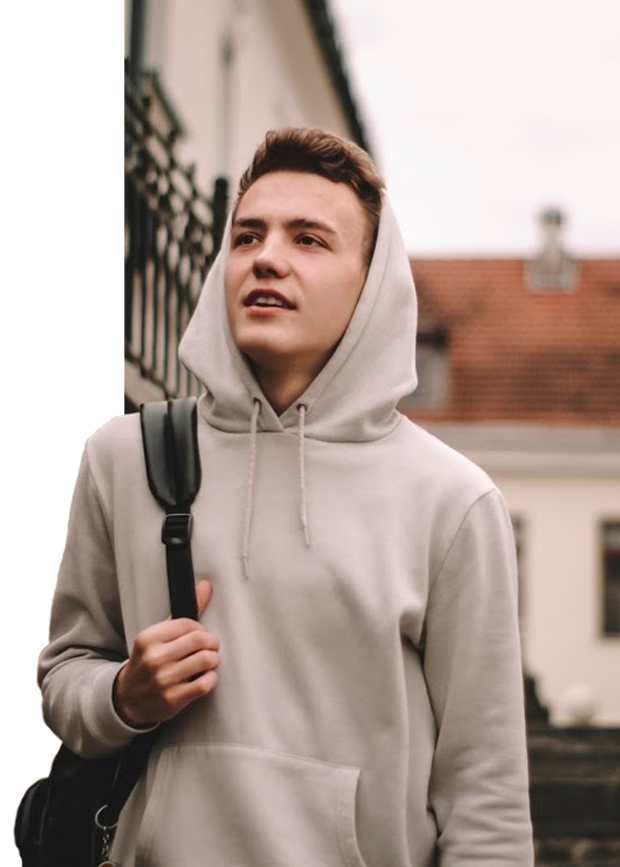
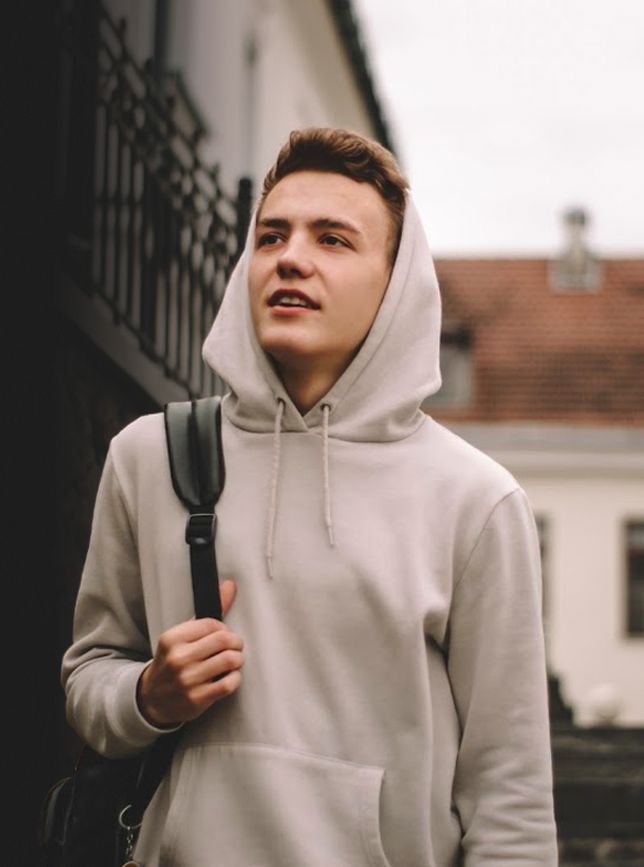
Add files via upload

diff --git a/index.html b/index.html
@@ -27,7 +27,7 @@
             <h3 class="do">Разработка сайтов</h3>
           </div>
           <p class="text">Привет! Добро пожаловать на мой сайт-визитку. <br>Мои контакты смотри по кнопке, портфолио — ещё ниже :)</p>
-          <p class="text last">Искренне считаю, что специалист по-настоящему хорош тогда, когда ему нравится то, чем он занимается, когда процесс приносит удовольствие, а результат — качество</p>
+          <p class="text last">Искренне считаю, что специалист по-настоящему хорош тогда, когда ему нравится, чем он занимается, когда процесс приносит удовольствие, а результат — качество</p>
           <a href="contacts.html" id="but">Связаться</a><br>
           <a href="https://www.behance.net/ostryaklen1a50" target="_blank" id="portf">Смотреть портфолио</a>
         </div>

diff --git a/contacts .css b/contacts .css
@@ -50,7 +50,7 @@
 	div#photo{
 		height: 100vh;
 		text-align: left;
-		background-image: url('me1.png');
+		background-image: url('me1.jpg');
 		background-size: auto 100%;
 		background-position: left;
 		background-repeat: no-repeat;
@@ -60,7 +60,7 @@
 
 	h1.name{
 		font-size: 90px;
-		text-shadow: 7px 5px 0 #58831f;
+		text-shadow: 7px 5px 0 #207ef3;
 		text-transform: uppercase;
 		letter-spacing: 5px;
 		line-height: 1;
@@ -68,7 +68,7 @@
 		font-weight: bold;
 	}
 	h1.name.name:hover{
-		text-shadow: -7px -5px 0px #58831f;
+		text-shadow: -7px -5px 0px #207ef3;
 	}
 	h3.name{
 		display: inline-;
@@ -102,7 +102,7 @@
 		color: #fff;
 		
 	}
-	div.cont:hover h4.name{text-shadow: 2px 2px 0 #58831f;}
+	div.cont:hover h4.name{text-shadow: 2px 2px 0 #207ef3;}
 	a#portf{
 		color: #fff;
 		font-size: 22px;

diff --git a/style1.css b/style1.css
@@ -56,14 +56,14 @@
 	}
 	h1#name{
 		font-size: 100px;
-		text-shadow: 7px 5px 0 #ff9966;
+		text-shadow: 7px 5px 0 #ff7c47;
 		text-transform: uppercase;
 		letter-spacing: 5px;
 		line-height: 1;
 		margin-bottom: 15px;
 		font-weight: bold;
 	}
-	h1#name:hover{text-shadow: -7px -5px 0px #ff9966;}
+	h1#name:hover{text-shadow: -7px -5px 0px #ff7c47;}
 	h3.do{
 		display: inline-block;
 		font-size: 28px;
@@ -81,7 +81,7 @@
 	a#but{
 		display: inline-block;
 		border-radius: 5px;
-		box-shadow: 7px 6px 0 #ff9966;
+		box-shadow: 7px 6px 0 #ff7c47;
 		padding: 18px 60px;
 		background: #fff;
 		color: #1d1d1d;
@@ -92,7 +92,7 @@
 		text-decoration: none;
 	}
 	a#but:hover{
-		box-shadow: -7px -6px 0px #ff9966;
+		box-shadow: -7px -6px 0px #ff7c47;
 	}
 	a#portf{
 		color: #fff;

diff --git a/contacts.html b/contacts.html
@@ -18,7 +18,7 @@
  <body>
   <div class="container-fluid" >
     <div class="row">
-      <div id="photo" class="col-md-4 hidden-sm hidden-xs">
+      <div id="photo" class="col-lg-5 col-md-4 hidden-sm hidden-xs">
         <!-- Картинка -->
       </div>
       <div id="text" class="col-lg-7 col-md-8 col-sm-12">
